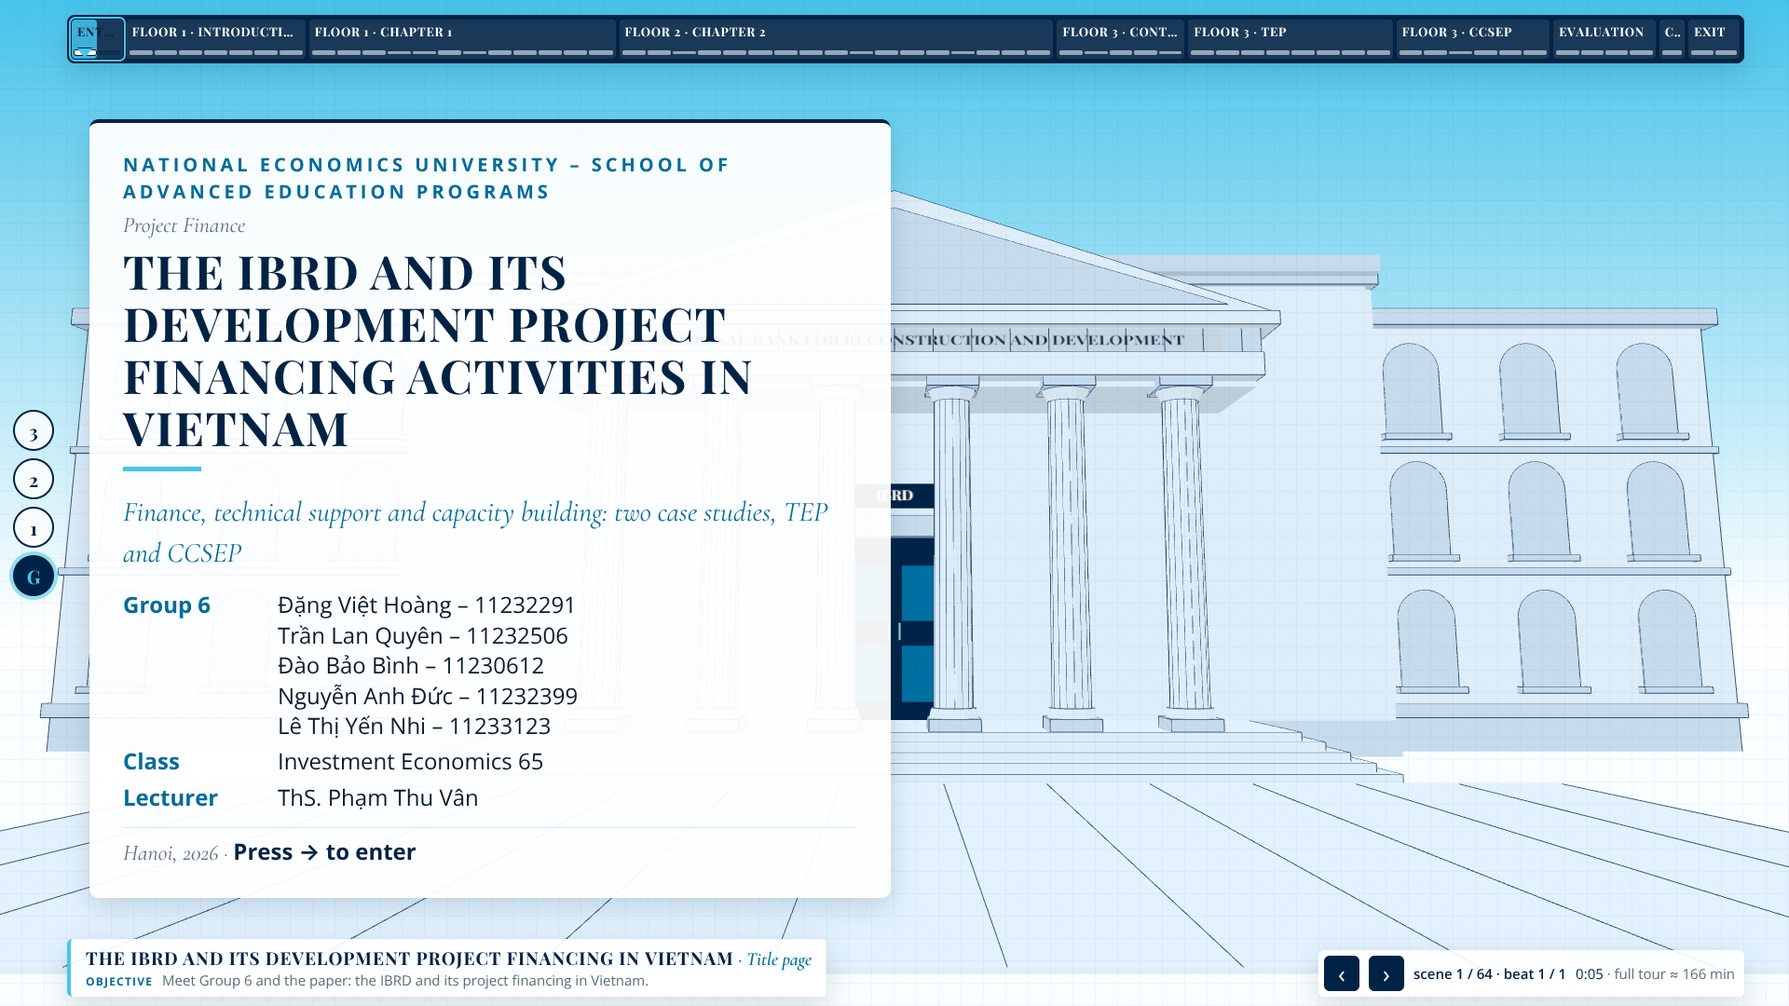
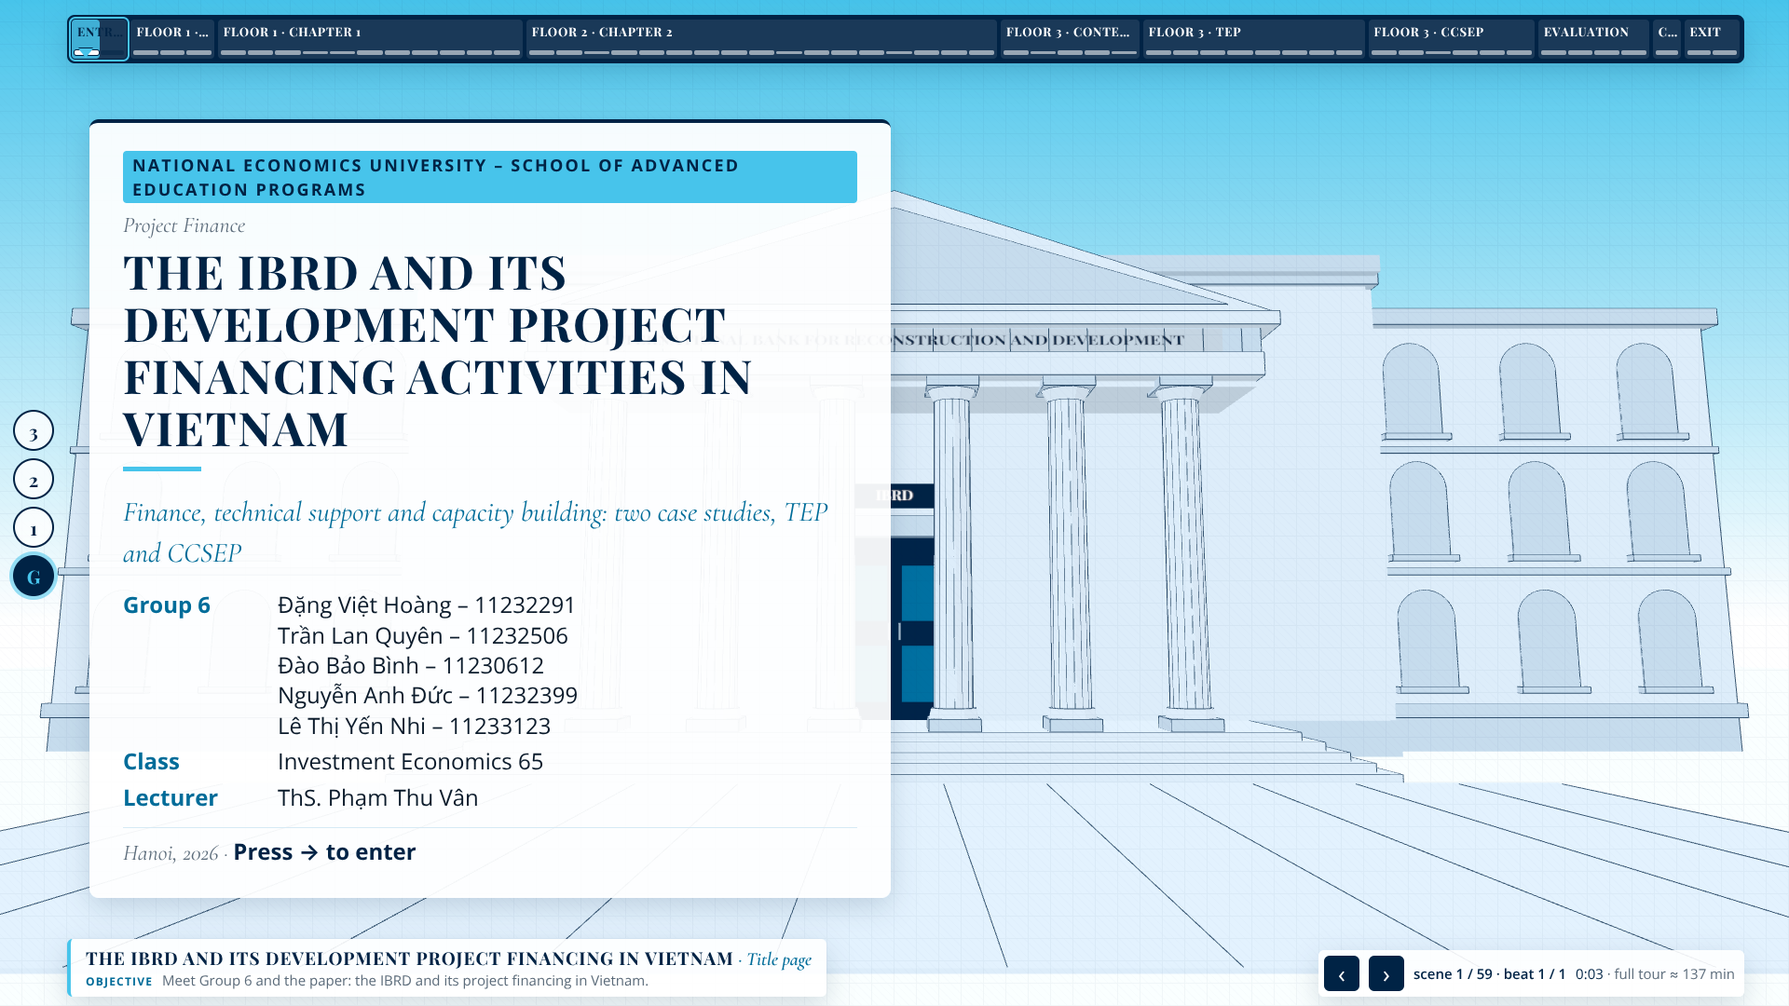
Update README and scene list for the _10 update (59 scenes, print, lite, check-lines)
Claude-Session: https://claude.ai/code/session_01644THZssb1bun3dxWwWVc3

diff --git a/ibrd-bank-tour/README.md b/ibrd-bank-tour/README.md
@@ -3,7 +3,7 @@
 An interactive 3D "bank tour" for **Group 6 (NEU)**, built around the paper *The IBRD and its development project financing activities in Vietnam*.
 You walk in through the front door. Floor 1 holds the Introduction and Chapter 1, Floor 2 holds Chapter 2, and Floor 3 holds Chapter 3, with TEP on the left, CCSEP on the right and the executive office at the far end. The Conclusion plays as the lift rides down, and the Thank-You is at the exit door.
 
-**Status:** all 64 scenes carry the full content of the paper: Introduction and Chapter 1 (Floor 1), Chapter 2 (Floor 2), Chapter 3 (Floor 3: context at the entrance, TEP on the left half, CCSEP on the right half, evaluation in the executive office), the Conclusion on the lift ride down, and the exit (reference wall and thank-you). Coverage audits: `docs/coverage-ch1-ch2.md` and `docs/coverage-ch3-conclusion.md`. Inconsistencies: `docs/paper-inconsistencies.md`.
+**Status (paper _10):** 59 scenes. Floors 1-2 show the **key ideas** of the paper (one idea per beat, about 25-50 words; see *Floors 1-2 content policy* below), and Floor 3 shows the full content: Introduction and Chapter 1 (Floor 1), Chapter 2 (Floor 2), Chapter 3 (Floor 3: context at the entrance, TEP on the left half, CCSEP on the right half, evaluation in the executive office), the Conclusion on the lift ride down, and the exit (reference wall and thank-you). What changed in the _10 update: `docs/update-log.md`, `docs/paper-diff-ch1-ch2.md`, `docs/paper-diff-ch3.md`. Coverage audits: `docs/coverage-ch1-ch2.md` (key-idea coverage) and `docs/coverage-ch3-conclusion.md`. Inconsistencies: `docs/paper-inconsistencies.md`.
 
 ## Run
 
@@ -12,7 +12,9 @@ npm install
 npm run dev            # http://localhost:5173 (dev overlay on by default in dev)
 npm run build          # dist/ (normal multi-file build)
 npm run build:single   # dist-single/index.html — ONE file, opens from file:// offline
-npm run export-pdf     # dist/ibrd-bank-tour.pdf — one 1920x1080 page per beat
+npm run capture-bg     # src/assets/print-bg/<scene>.jpg — 3D end-pose background per scene (for print)
+npm run export-pdf     # dist/ibrd-bank-tour.pdf — one page per scene (runs capture-bg first if images are missing)
+npm run check-lines    # leader lines vs text, every beat at 1920x1080 and 1366x768 → docs/line-overlaps.md
 npm run test:shots     # docs/screens/NN-<scene>[-bN].png — first and last beat of every scene
                        #   options: --only=id,id  --segments=intro,ch1  --all-beats
                        #   also reports content that is clipped or reaches into the HUD margins
@@ -104,7 +106,7 @@ A beat can use its own camera: `{ camera: 'some-waypoint-id' }` in its beat entr
 ## Architecture
 
 ```
-src/scenes.ts            scene list (64)            src/content/*.tsx   beats + View per scene
+src/scenes.ts            scene list (59)            src/content/*.tsx   beats + View per scene
 src/state/store.ts       zustand: position, modes   src/state/keys.ts   keyboard + swipe
 src/state/hash.ts        #scene/beat sync           src/director.ts     navigation -> gsap timelines
 src/camera/waypoints.ts  camera poses               src/camera/rig.ts   camera state (pos + quaternion slerp)
@@ -127,9 +129,9 @@ src/lite/LiteBackdrop    static SVG per area (Lite + Print)     src/print/PrintV
 - **Camera:** tweens slerp orientation (quaternions) instead of interpolating look-at targets, so wide turns never flip. Moving between levels without the lift (backwards, or jumps from the grid, tracker or hash) uses a short white fade cut instead of flying through floor slabs.
 - **Performance:** each room is merged into roughly one mesh per material plus one `LineSegments` for all ink outlines (`EdgesGeometry`). Floors outside the current zone are hidden. Measured in `test:shots`: at most 68 draw calls and about 21k triangles in any pose, against a budget of 150 / 300k. DPR is capped at 1.5, there is no post-processing, and tone mapping is off so the palette renders as specified.
 - **Labels in 3D:** canvas textures, redrawn once the fonts have loaded.
-- **Callouts:** hidden in Lite and Print mode (there is no 3D projection there). The tables and charts carry the meaning on their own.
-- **Lite mode:** the toast offers Lite mode after 3 s of average fps below 24 (it starts watching 5 s after load) and switches by itself after 8 s. WebGL failure or context loss switches immediately.
-- **Print mode:** one page per beat. Scenes with 0 beats print no page. The header names the scene, section and beat, and the footer reads "Group 6 – IBRD in Vietnam | n/N".
+- **Callouts:** drawn below the content cards, starting at the card edge nearest the prop and routed around every line of text (straight, elbow or gutter detour), with a white halo and a pin at the prop. When no route is free, the callout becomes a numbered pin on the card and on the prop. `npm run check-lines` measures this on every beat and fails on any overlap. Hidden in Lite mode. `?legacylines=1` measures the old geometry (for the before/after count only).
+- **Lite mode:** 3D is the default and the tour **never switches to Lite by itself** on low fps: it only shows a toast "Switch to Lite mode? (L)". Lite starts only when WebGL is not available (or the context is lost), when you press **L**, or with `?lite=1`. Pressing L remembers the choice in `localStorage` (`ibrd-tour-lite`) for the next visit.
+- **Print mode:** one page per scene (see *Print / PDF*). Scenes with 0 beats print no page.
 - **Fonts:** latin and vietnamese subsets of Playfair Display 700, Cormorant Garamond 400/600 italic and Open Sans 400/600/700, woff2 only (the woff fallbacks are stripped at build time).
 - **HUD sizes:** HUD text is smaller (15–20 px at design size) than the 28 / 26 / 24 px minimums, which apply to slide content. The HUD stays inside the reserved margins (top 84, bottom 72, left 72, right 48) and content zones start inside them.
 - **Titles:** scene titles are readable versions of the TOC headings, and objectives are "TBD" until the content arrives.
@@ -145,10 +147,23 @@ Every colour is a CSS variable in `src/tokens.css`. The DOM uses them directly, 
 
 ## Print / PDF
 
-Open `?print=1` (or press **P**). It shows a contents page, then every beat of every scene as a static 1920×1080 page, then the reference pages (14 per page). There is no WebGL and no HUD.
-- Each page has a per-floor SVG background, its header names the scene, section and the beat's source tag, and its footer reads "Group 6 – IBRD in Vietnam | n/N".
-- On table and chart beats, each callout is drawn as a leader from the focused row or bar to a labelled marker naming the 3D prop.
-- `npm run export-pdf` writes `dist/ibrd-bank-tour.pdf` and checks that the PDF page count equals 1 + beats + reference pages.
+Open `?print=1` (or press **P**). The order is: cover (front of the building), contents, **one page per scene**, then the reference pages (16 per page). There is no WebGL and no HUD.
+- **Scene page:** the scene's 3D end pose as the background (`src/assets/print-bg/<scene>.jpg`, made by `npm run capture-bg` with `?capture=1`, 1920×1080 JPEG at quality 82; the script fails if an image is uniform). On top: the table, chart or diagram once and complete, then every beat as a card in a grid (white cards at about 88% opacity). Focus dimming is off.
+- **Callouts in print:** no leader lines. Each callout is a numbered pin on the card or table row, and a legend at the bottom of the page names the 3D prop for each number.
+- **Footer:** "Group 6 – IBRD in Vietnam | page/total".
+- **Overflow:** a scene gets an extra page only if its cards do not fit (at most 5 parts). Every case is logged in `docs/print-overflow.md`.
+- `npm run export-pdf` runs `capture-bg` if the images are missing, prints, and checks the page count (cover + contents + scenes + overflow + references), that every scene page has a non-blank background, and that no text is clipped. The current PDF has **72 pages**.
+- The backgrounds (about 7 MB) are embedded in the single-file build, which stays at about 11 MB (limit 40 MB).
+
+## Floors 1-2 content policy (update _10)
+
+- One key idea per beat, about 25-50 words, key terms in **bold**, the paper's [n] citations kept.
+- Abbreviations are spelled out at first use in each scene, and amounts are written "USD …".
+- No case-study names or numbers on Floors 1-2 (TEP, CCSEP, NPT, Nha Trang, Phan Rang, 231.25, 31.4%, 290,000 …): the wording is generic. The single exception is `f2-prep` beat 4, which keeps one sentence naming TEP because the Chapter 2 fix list asks for it.
+- Removed scenes: `f1-rationale-1`, `f1-objectives`, `f1-method`, `f1-scope`, `f1-voting`. The Introduction is now `f1-rationale-2`, `f1-problem` and `f1-structure`.
+- Scenes 23-32 (`f2-cycle` … `f2-me`) follow "Fix chap 2.pdf" word for word.
+- Each beat has a cyan label chip, a navy title and the paragraphs. Tables keep the paper's rows and columns with short cell text.
+- Presenter `targetSeconds` is about 20 s per beat.
 
 ## Decisions for the content of Floor 3, the Conclusion and the exit
 
@@ -171,13 +186,13 @@ Open `?print=1` (or press **P**). It shows a contents page, then every beat of e
 
 - **Callouts and centring:** to give every table beat a callout to a *visible* prop, tables are centred in the area to the right of a 400 px prop band, not on the exact screen centre. Table beats switch to a dedicated camera.
 - **Props:**
-  - `f1-instruments` uses the three teller counters labelled IPF / DPF / PforR (Table 2 has three rows).
-  - The loan desk got new props for Table 3: a rate board, a contract, a calendar, a clock, a coin stack and a ledger.
+  - `f1-instruments` uses the three teller counters labelled IPF / DPF / PforR (Table 1.4.1 has three rows).
+  - The loan desk got new props for Table 1.4.2: a rate board, a contract, a calendar, a clock, a coin stack and a ledger.
   - Also new: an INFORMATION counter (`f1-what`), a hanging "CHAPTER 1 · OVERVIEW OF THE IBRD" sign, era plates on the archive wall (1944-1950s … 2000-present), ten stamps on the safeguards table (ESS5 in cyan), a "CHAPTER 2 · …" sign on Floor 2, and letter-of-credit papers on the finance desk.
-  - Table 4's six stages map to the six chairs around the round table.
+  - Table 2.1.1's six stages map to the six chairs around the round table.
 - **Prose:** text is in English and sentences are shortened, never changed in meaning. Where the paper's wording is a range or qualitative ("around 15-16 percent", the IDA / IBRD / commercial cost ranking), the tour keeps it so and invents no figure.
 - **Cost comparison:** the cost comparison in Introduction 1.2 is drawn as a qualitative "cost ladder", because the paper gives no numbers there.
-- **TEP counterpart chart:** the chart uses TEP's IBRD loan from Section 3.2.2 (USD 500.00 million) and says so in a note. Chapter 2 gives only the counterpart and the total.
+- **TEP counterpart chart:** removed in the _10 update (no case numbers on Floor 2).
 - **Notes:** the presenter notes only restate the paper.
 
 ## Engine changes (made for this content; no behaviour removed)
@@ -196,6 +211,16 @@ Open `?print=1` (or press **P**). It shows a contents page, then every beat of e
   - `{id|2}` fixed-decimal templates.
   - SDR units in `formatFact`.
   - The print view has a contents page, reference pages and static callouts.
+
+## Engine changes in the _10 update (needed fixes only)
+
+- `src/primitives/Callout.tsx` rewritten: text-aware routing (obstacles are the client rects of every text line and HUD box), layer below the cards, halo and pin, numbered-pin fallback (`CalloutPinsTop`). The geometry is published on `window.__calloutGeo` for `check-lines`.
+- `?capture=1` (implies `?shot=1` and `?noauto=1`) hides the content and the HUD, for `capture-bg`.
+- Lite mode: no automatic switch, toast only, choice remembered in `localStorage`.
+- The print view was rewritten (`src/print/PrintView.tsx`). The kit attaches its slides to each `View` so print can lay out every beat at once.
+- `formatFact` prints "USD" everywhere instead of "US$".
+- Print backgrounds live in `src/assets/print-bg/` and not in `public/`, because Vite can only embed imported files in the single-file build.
+- `scripts/browser.mjs` launches Chromium with real WebGL through SwiftShader (`--use-gl=angle --use-angle=swiftshader`).
 
 ## Known limitations
 

diff --git a/ibrd-bank-tour/docs/scene-list.md b/ibrd-bank-tour/docs/scene-list.md
@@ -4,69 +4,64 @@ Generated from `src/scenes.ts` by `npm run docs:scenes`. Beats are computed from
 
 | # | id | kind | floor | segment | section | optional | target s | beats |
 |---|---|---|---|---|---|---|---|---|
-| 1 | `ext-facade` | exterior | G | Entrance | Title page |  | 30 | 1 |
+| 1 | `ext-facade` | exterior | G | Entrance | Title page |  | 20 | 1 |
 | 2 | `ext-door` | door | G | Entrance | — |  | 8 | 0 |
-| 3 | `f1-rationale-1` | room | 1 | Floor 1 · Introduction | Introduction 1.1 |  | 90 | ? |
-| 4 | `f1-rationale-2` | room | 1 | Floor 1 · Introduction | Introduction 1.2 |  | 95 | ? |
-| 5 | `f1-problem` | room | 1 | Floor 1 · Introduction | Introduction 2 |  | 60 | ? |
-| 6 | `f1-objectives` | room | 1 | Floor 1 · Introduction | Introduction 3 |  | 120 | ? |
-| 7 | `f1-method` | room | 1 | Floor 1 · Introduction | Introduction 4 |  | 140 | ? |
-| 8 | `f1-scope` | room | 1 | Floor 1 · Introduction | Introduction 5 |  | 60 | ? |
-| 9 | `f1-structure` | room | 1 | Floor 1 · Introduction | Introduction 6 |  | 30 | 1 |
-| 10 | `f1-ch1-title` | room | 1 | Floor 1 · Chapter 1 | Chapter 1 |  | 25 | ? |
-| 11 | `f1-what` | room | 1 | Floor 1 · Chapter 1 | Section 1.1.1 |  | 90 | ? |
-| 12 | `f1-wbg` | room | 1 | Floor 1 · Chapter 1 | Section 1.1.2 |  | 270 | ? |
-| 13 | `f1-history-1` | room | 1 | Floor 1 · Chapter 1 | Section 1.2 | yes | 110 | ? |
-| 14 | `f1-history-2` | room | 1 | Floor 1 · Chapter 1 | Section 1.2 | yes | 85 | ? |
-| 15 | `f1-gov` | room | 1 | Floor 1 · Chapter 1 | Section 1.3.1 |  | 110 | ? |
-| 16 | `f1-voting` | room | 1 | Floor 1 · Chapter 1 | Section 1.3.2 | yes | 110 | ? |
-| 17 | `f1-funds` | room | 1 | Floor 1 · Chapter 1 | Section 1.3.3 |  | 140 | ? |
-| 18 | `f1-instruments` | room | 1 | Floor 1 · Chapter 1 | Section 1.4.1 |  | 140 | ? |
-| 19 | `f1-terms` | room | 1 | Floor 1 · Chapter 1 | Section 1.4.2 |  | 250 | ? |
-| 20 | `f1-safeguards` | room | 1 | Floor 1 · Chapter 1 | Section 1.4.3 |  | 170 | ? |
-| 21 | `lift-1-2` | lift | 1 | Floor 1 · Chapter 1 | — |  | 10 | 0 |
-| 22 | `f2-ch2-title` | room | 2 | Floor 2 · Chapter 2 | Chapter 2 |  | 25 | ? |
-| 23 | `f2-cycle` | room | 2 | Floor 2 · Chapter 2 | Section 2.1.1 |  | 230 | ? |
-| 24 | `f2-vn-procedures` | room | 2 | Floor 2 · Chapter 2 | Section 2.1.1 | yes | 60 | ? |
-| 25 | `f2-disbursement` | room | 2 | Floor 2 · Chapter 2 | Section 2.1.2 |  | 175 | ? |
-| 26 | `f2-counterpart` | room | 2 | Floor 2 · Chapter 2 | Section 2.1.2 |  | 90 | ? |
-| 27 | `f2-ipf` | room | 2 | Floor 2 · Chapter 2 | Section 2.1.3 |  | 60 | ? |
-| 28 | `f2-dpf` | room | 2 | Floor 2 · Chapter 2 | Section 2.1.3 |  | 90 | ? |
-| 29 | `f2-pforr` | room | 2 | Floor 2 · Chapter 2 | Section 2.1.3 |  | 90 | ? |
-| 30 | `f2-prep` | room | 2 | Floor 2 · Chapter 2 | Section 2.2.1 |  | 120 | ? |
-| 31 | `f2-asa` | room | 2 | Floor 2 · Chapter 2 | Section 2.2.2 | yes | 120 | ? |
-| 32 | `f2-me` | room | 2 | Floor 2 · Chapter 2 | Section 2.2.3 |  | 150 | ? |
-| 33 | `f2-training-pmu` | room | 2 | Floor 2 · Chapter 2 | Section 2.3.1 |  | 120 | ? |
-| 34 | `f2-training-knowledge` | room | 2 | Floor 2 · Chapter 2 | Section 2.3.2 |  | 90 | ? |
-| 35 | `f2-institutional` | room | 2 | Floor 2 · Chapter 2 | Section 2.3.3 | yes | 250 | ? |
-| 36 | `f2-three-forms` | room | 2 | Floor 2 · Chapter 2 | Section 2.4 |  | 200 | ? |
-| 37 | `f2-package` | room | 2 | Floor 2 · Chapter 2 | Section 2.4 |  | 60 | ? |
-| 38 | `lift-2-3` | lift | 2 | Floor 2 · Chapter 2 | — |  | 10 | 0 |
-| 39 | `f3-ch3-title` | room | 3 | Floor 3 · Context | Chapter 3 |  | 55 | ? |
-| 40 | `f3-1993` | room | 3 | Floor 3 · Context | Section 3.1.1 | yes | 60 | ? |
-| 41 | `f3-ida-graduation` | room | 3 | Floor 3 · Context | Section 3.1.2 |  | 120 | ? |
-| 42 | `f3-sahep` | room | 3 | Floor 3 · Context | Section 3.1.3 |  | 230 | ? |
-| 43 | `f3-legal` | room | 3 | Floor 3 · Context | Section 3.1.4 | yes | 290 | ? |
-| 44 | `f3-tep-overview` | room | 3 | Floor 3 · TEP | Section 3.2.1 |  | 240 | ? |
-| 45 | `f3-tep-cost` | room | 3 | Floor 3 · TEP | Section 3.2.2 |  | 330 | ? |
-| 46 | `f3-tep-financing` | room | 3 | Floor 3 · TEP | Section 3.2.2 |  | 250 | ? |
-| 47 | `f3-tep-impl` | room | 3 | Floor 3 · TEP | Section 3.2.3 |  | 270 | ? |
-| 48 | `f3-tep-outputs` | room | 3 | Floor 3 · TEP | Section 3.2.4 |  | 210 | ? |
-| 49 | `f3-tep-outcomes` | room | 3 | Floor 3 · TEP | Section 3.2.4 |  | 300 | ? |
-| 50 | `f3-tep-gap` | room | 3 | Floor 3 · TEP | Section 3.2.5 |  | 360 | ? |
-| 51 | `f3-tep-assess` | room | 3 | Floor 3 · TEP | Section 3.2.6 |  | 270 | ? |
-| 52 | `f3-ccsep-overview` | room | 3 | Floor 3 · CCSEP | Section 3.3.1 |  | 270 | ? |
-| 53 | `f3-ccsep-structure` | room | 3 | Floor 3 · CCSEP | Section 3.3.2 |  | 480 | ? |
-| 54 | `f3-ccsep-cities` | room | 3 | Floor 3 · CCSEP | Section 3.3.2 | yes | 420 | ? |
-| 55 | `f3-ccsep-impl` | room | 3 | Floor 3 · CCSEP | Section 3.3.3 |  | 390 | ? |
-| 56 | `f3-ccsep-results` | room | 3 | Floor 3 · CCSEP | Section 3.3.4 |  | 390 | ? |
-| 57 | `f3-ccsep-nhatrang` | room | 3 | Floor 3 · CCSEP | Section 3.3.4 |  | 240 | ? |
-| 58 | `f3-eval-achievements` | room | 3 | Evaluation | Section 3.4.1 |  | 130 | ? |
-| 59 | `f3-eval-limitations` | room | 3 | Evaluation | Section 3.4.2 |  | 130 | ? |
-| 60 | `f3-recs-1` | room | 3 | Evaluation | Section 3.4.3 |  | 120 | ? |
-| 61 | `f3-recs-2` | room | 3 | Evaluation | Section 3.4.3 |  | 95 | ? |
-| 62 | `lift-down` | lift | 3 | Conclusion | Conclusion 1–4 |  | 170 | ? |
-| 63 | `ex-sources` | exit | G | Exit | References |  | 25 | 1 |
-| 64 | `ex-thanks` | exit | G | Exit | — |  | 25 | 1 |
+| 3 | `f1-rationale-2` | room | 1 | Floor 1 · Introduction | Introduction 1.2 |  | 60 | ? |
+| 4 | `f1-problem` | room | 1 | Floor 1 · Introduction | Introduction 2 |  | 40 | ? |
+| 5 | `f1-structure` | room | 1 | Floor 1 · Introduction | Introduction 6 |  | 20 | 1 |
+| 6 | `f1-ch1-title` | room | 1 | Floor 1 · Chapter 1 | Chapter 1 |  | 20 | ? |
+| 7 | `f1-what` | room | 1 | Floor 1 · Chapter 1 | Section 1.1.1 |  | 60 | ? |
+| 8 | `f1-wbg` | room | 1 | Floor 1 · Chapter 1 | Section 1.1.2 |  | 200 | ? |
+| 9 | `f1-history-1` | room | 1 | Floor 1 · Chapter 1 | Section 1.2 | yes | 80 | ? |
+| 10 | `f1-history-2` | room | 1 | Floor 1 · Chapter 1 | Section 1.2 | yes | 60 | ? |
+| 11 | `f1-gov` | room | 1 | Floor 1 · Chapter 1 | Section 1.3.1 |  | 140 | ? |
+| 12 | `f1-funds` | room | 1 | Floor 1 · Chapter 1 | Section 1.3.3 |  | 80 | ? |
+| 13 | `f1-instruments` | room | 1 | Floor 1 · Chapter 1 | Section 1.4.1 |  | 100 | ? |
+| 14 | `f1-terms` | room | 1 | Floor 1 · Chapter 1 | Section 1.4.2 |  | 160 | ? |
+| 15 | `f1-safeguards` | room | 1 | Floor 1 · Chapter 1 | Section 1.4.3 |  | 120 | ? |
+| 16 | `lift-1-2` | lift | 1 | Floor 1 · Chapter 1 | — |  | 10 | 0 |
+| 17 | `f2-ch2-title` | room | 2 | Floor 2 · Chapter 2 | Chapter 2 |  | 20 | ? |
+| 18 | `f2-cycle` | room | 2 | Floor 2 · Chapter 2 | Section 2.1.1 |  | 160 | ? |
+| 19 | `f2-vn-procedures` | room | 2 | Floor 2 · Chapter 2 | Section 2.1.1 | yes | 20 | ? |
+| 20 | `f2-disbursement` | room | 2 | Floor 2 · Chapter 2 | Section 2.1.2 |  | 120 | ? |
+| 21 | `f2-counterpart` | room | 2 | Floor 2 · Chapter 2 | Section 2.1.2 |  | 20 | ? |
+| 22 | `f2-ipf` | room | 2 | Floor 2 · Chapter 2 | Section 2.1.3 |  | 20 | ? |
+| 23 | `f2-dpf` | room | 2 | Floor 2 · Chapter 2 | Section 2.1.3 |  | 40 | ? |
+| 24 | `f2-pforr` | room | 2 | Floor 2 · Chapter 2 | Section 2.1.3 |  | 40 | ? |
+| 25 | `f2-prep` | room | 2 | Floor 2 · Chapter 2 | Section 2.2.1 |  | 80 | ? |
+| 26 | `f2-asa` | room | 2 | Floor 2 · Chapter 2 | Section 2.2.2 | yes | 80 | ? |
+| 27 | `f2-me` | room | 2 | Floor 2 · Chapter 2 | Section 2.2.3 |  | 80 | ? |
+| 28 | `f2-training-pmu` | room | 2 | Floor 2 · Chapter 2 | Section 2.3.1 |  | 60 | ? |
+| 29 | `f2-training-knowledge` | room | 2 | Floor 2 · Chapter 2 | Section 2.3.2 |  | 80 | ? |
+| 30 | `f2-institutional` | room | 2 | Floor 2 · Chapter 2 | Section 2.3.3 | yes | 140 | ? |
+| 31 | `f2-three-forms` | room | 2 | Floor 2 · Chapter 2 | Section 2.4 |  | 140 | ? |
+| 32 | `f2-package` | room | 2 | Floor 2 · Chapter 2 | Section 2.4 |  | 40 | ? |
+| 33 | `lift-2-3` | lift | 2 | Floor 2 · Chapter 2 | — |  | 10 | 0 |
+| 34 | `f3-ch3-title` | room | 3 | Floor 3 · Context | Chapter 3 |  | 55 | ? |
+| 35 | `f3-1993` | room | 3 | Floor 3 · Context | Section 3.1.1 | yes | 60 | ? |
+| 36 | `f3-ida-graduation` | room | 3 | Floor 3 · Context | Section 3.1.2 |  | 120 | ? |
+| 37 | `f3-sahep` | room | 3 | Floor 3 · Context | Section 3.1.3 |  | 230 | ? |
+| 38 | `f3-legal` | room | 3 | Floor 3 · Context | Section 3.1.4 | yes | 290 | ? |
+| 39 | `f3-tep-overview` | room | 3 | Floor 3 · TEP | Section 3.2.1 |  | 240 | ? |
+| 40 | `f3-tep-cost` | room | 3 | Floor 3 · TEP | Section 3.2.2 |  | 330 | ? |
+| 41 | `f3-tep-financing` | room | 3 | Floor 3 · TEP | Section 3.2.2 |  | 250 | ? |
+| 42 | `f3-tep-impl` | room | 3 | Floor 3 · TEP | Section 3.2.3 |  | 270 | ? |
+| 43 | `f3-tep-outputs` | room | 3 | Floor 3 · TEP | Section 3.2.4 |  | 210 | ? |
+| 44 | `f3-tep-outcomes` | room | 3 | Floor 3 · TEP | Section 3.2.4 |  | 300 | ? |
+| 45 | `f3-tep-gap` | room | 3 | Floor 3 · TEP | Section 3.2.5 |  | 360 | ? |
+| 46 | `f3-tep-assess` | room | 3 | Floor 3 · TEP | Section 3.2.6 |  | 270 | ? |
+| 47 | `f3-ccsep-overview` | room | 3 | Floor 3 · CCSEP | Section 3.3.1 |  | 270 | ? |
+| 48 | `f3-ccsep-structure` | room | 3 | Floor 3 · CCSEP | Section 3.3.2 |  | 480 | ? |
+| 49 | `f3-ccsep-cities` | room | 3 | Floor 3 · CCSEP | Section 3.3.2 | yes | 420 | ? |
+| 50 | `f3-ccsep-impl` | room | 3 | Floor 3 · CCSEP | Section 3.3.3 |  | 390 | ? |
+| 51 | `f3-ccsep-results` | room | 3 | Floor 3 · CCSEP | Section 3.3.4 |  | 390 | ? |
+| 52 | `f3-ccsep-nhatrang` | room | 3 | Floor 3 · CCSEP | Section 3.3.4 |  | 240 | ? |
+| 53 | `f3-eval-achievements` | room | 3 | Evaluation | Section 3.4.1 |  | 130 | ? |
+| 54 | `f3-eval-limitations` | room | 3 | Evaluation | Section 3.4.2 |  | 130 | ? |
+| 55 | `f3-recs-1` | room | 3 | Evaluation | Section 3.4.3 |  | 120 | ? |
+| 56 | `f3-recs-2` | room | 3 | Evaluation | Section 3.4.3 |  | 95 | ? |
+| 57 | `lift-down` | lift | 3 | Conclusion | Conclusion 1–4 |  | 170 | ? |
+| 58 | `ex-sources` | exit | G | Exit | References |  | 25 | 1 |
+| 59 | `ex-thanks` | exit | G | Exit | — |  | 25 | 1 |
 
-Full tour ≈ 166 min (9953 s) · core path ≈ 141 min (8448 s).
+Full tour ≈ 137 min (8198 s) · core path ≈ 117 min (7048 s).
